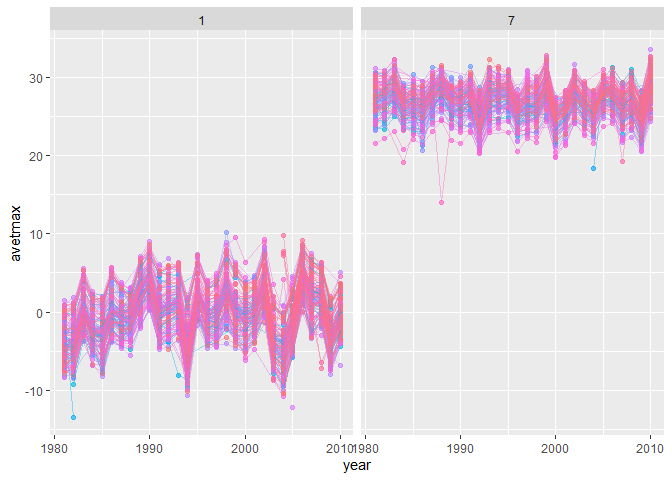
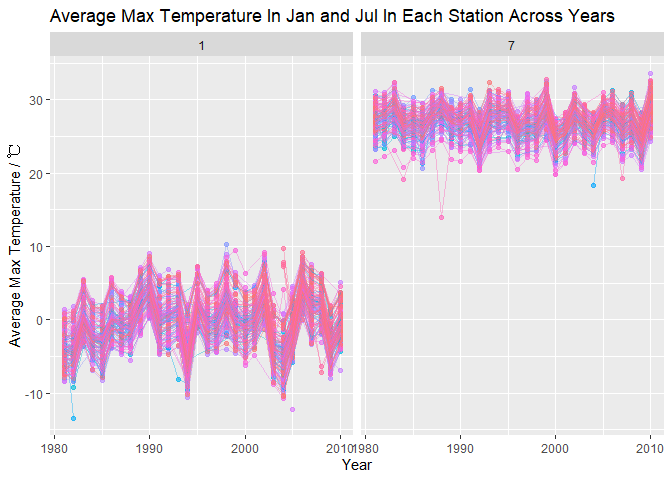
add some labels for plot

diff --git a/p8105_hw3_bf2506.md b/p8105_hw3_bf2506.md
@@ -132,7 +132,8 @@ Avetmax_plot =
   geom_point(alpha = .6) +
   geom_line(alpha = .4) + 
   facet_grid(. ~ month) +
-  theme(legend.position = "none")
+  theme(legend.position = "none") + 
+  labs(title = "Average Max Temperature In Jan and Jul In Each Station Across Years", x = "Year", y = "Average Max Temperature / ℃")
 
 Avetmax_plot
 ```
@@ -149,7 +150,8 @@ outliers in both Jan and Jul plot.
 
 ``` r
 tmax_tmin_plot = 
-  ggplot(ny_noaa_df, aes(x = tmin, y = tmax)) + geom_hex() 
+  ggplot(ny_noaa_df, aes(x = tmin, y = tmax)) + geom_hex() + 
+  labs(title = "Max Temperature VS Min Temperature", x = "Min Temperatue / ℃" , y = "Max Temperature / ℃")
 ```
 
 ``` r
@@ -162,7 +164,8 @@ snowfall_plot_df =
 
 snowfall_plot = 
   ggplot(snowfall_plot_df, aes(x = snow, y = year, group = year)) + 
-  geom_density_ridges(scale = .85)
+  geom_density_ridges(scale = .85) + 
+  labs(title = "Distribution of Snowfall Values from 0 to 100 By Year", x = "Snowfall / mm", y = "Year")
 ```
 
 ``` r
